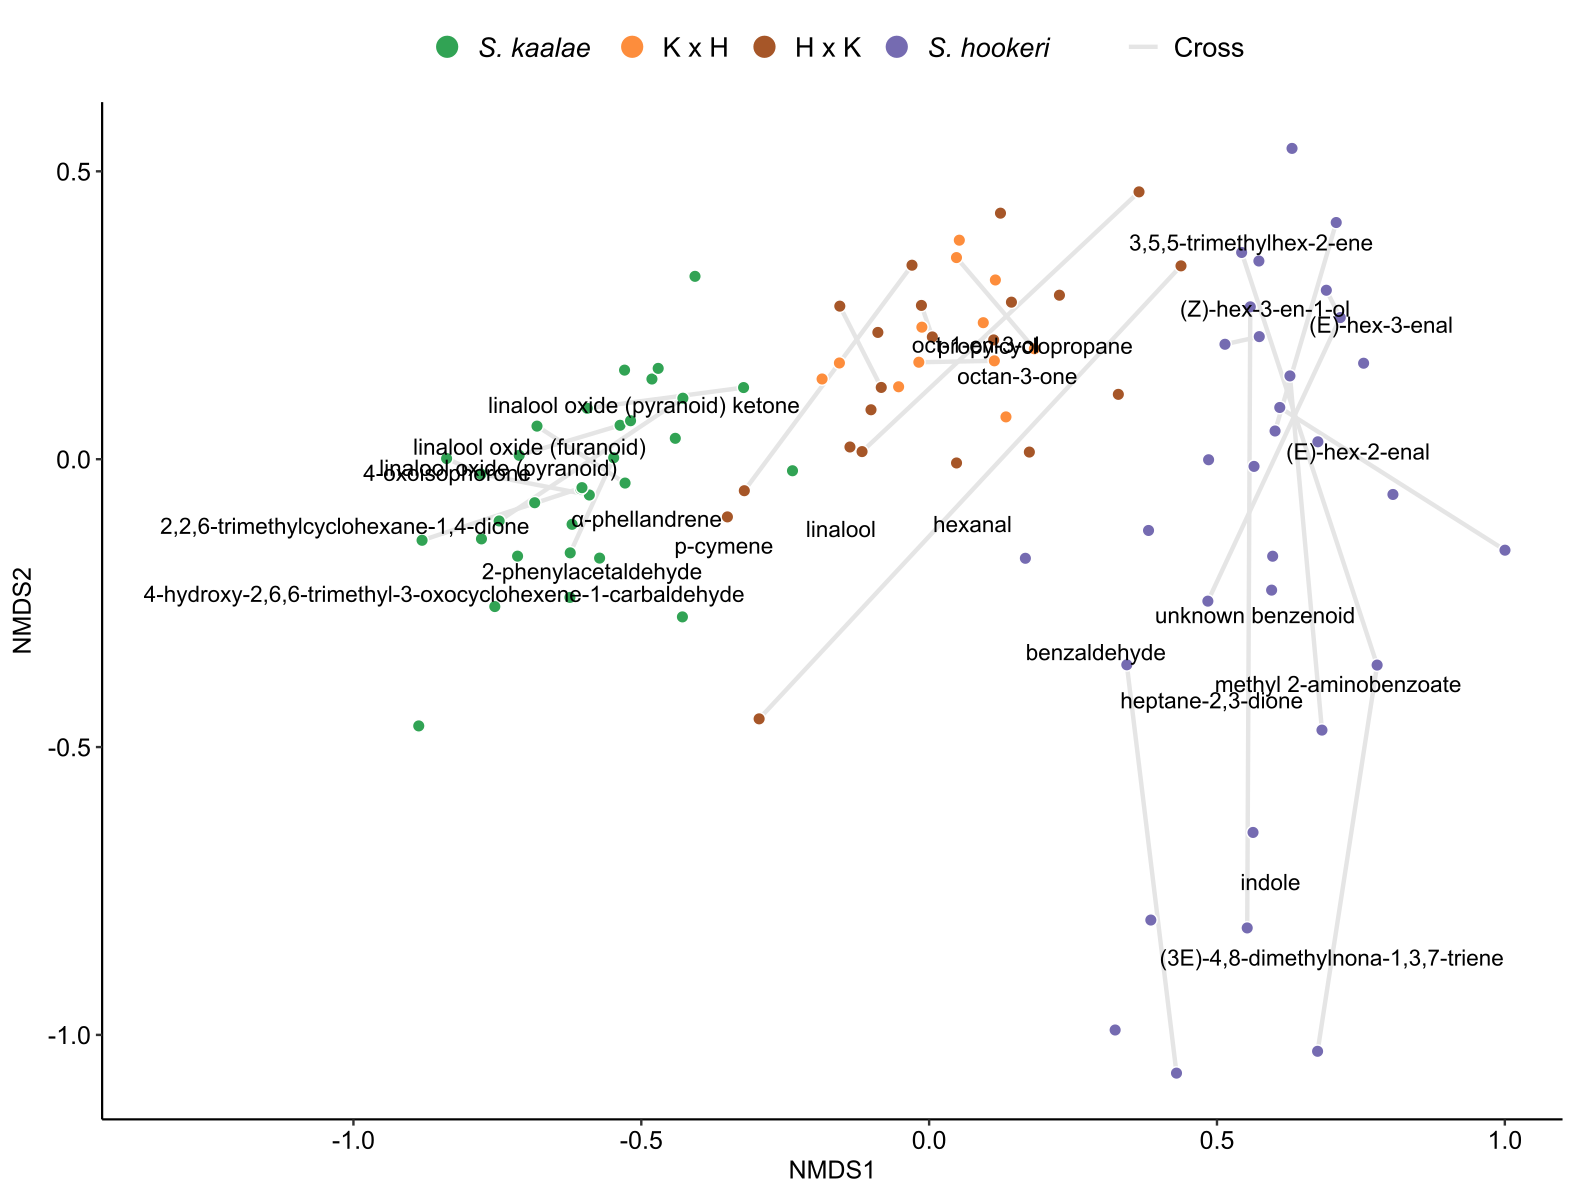
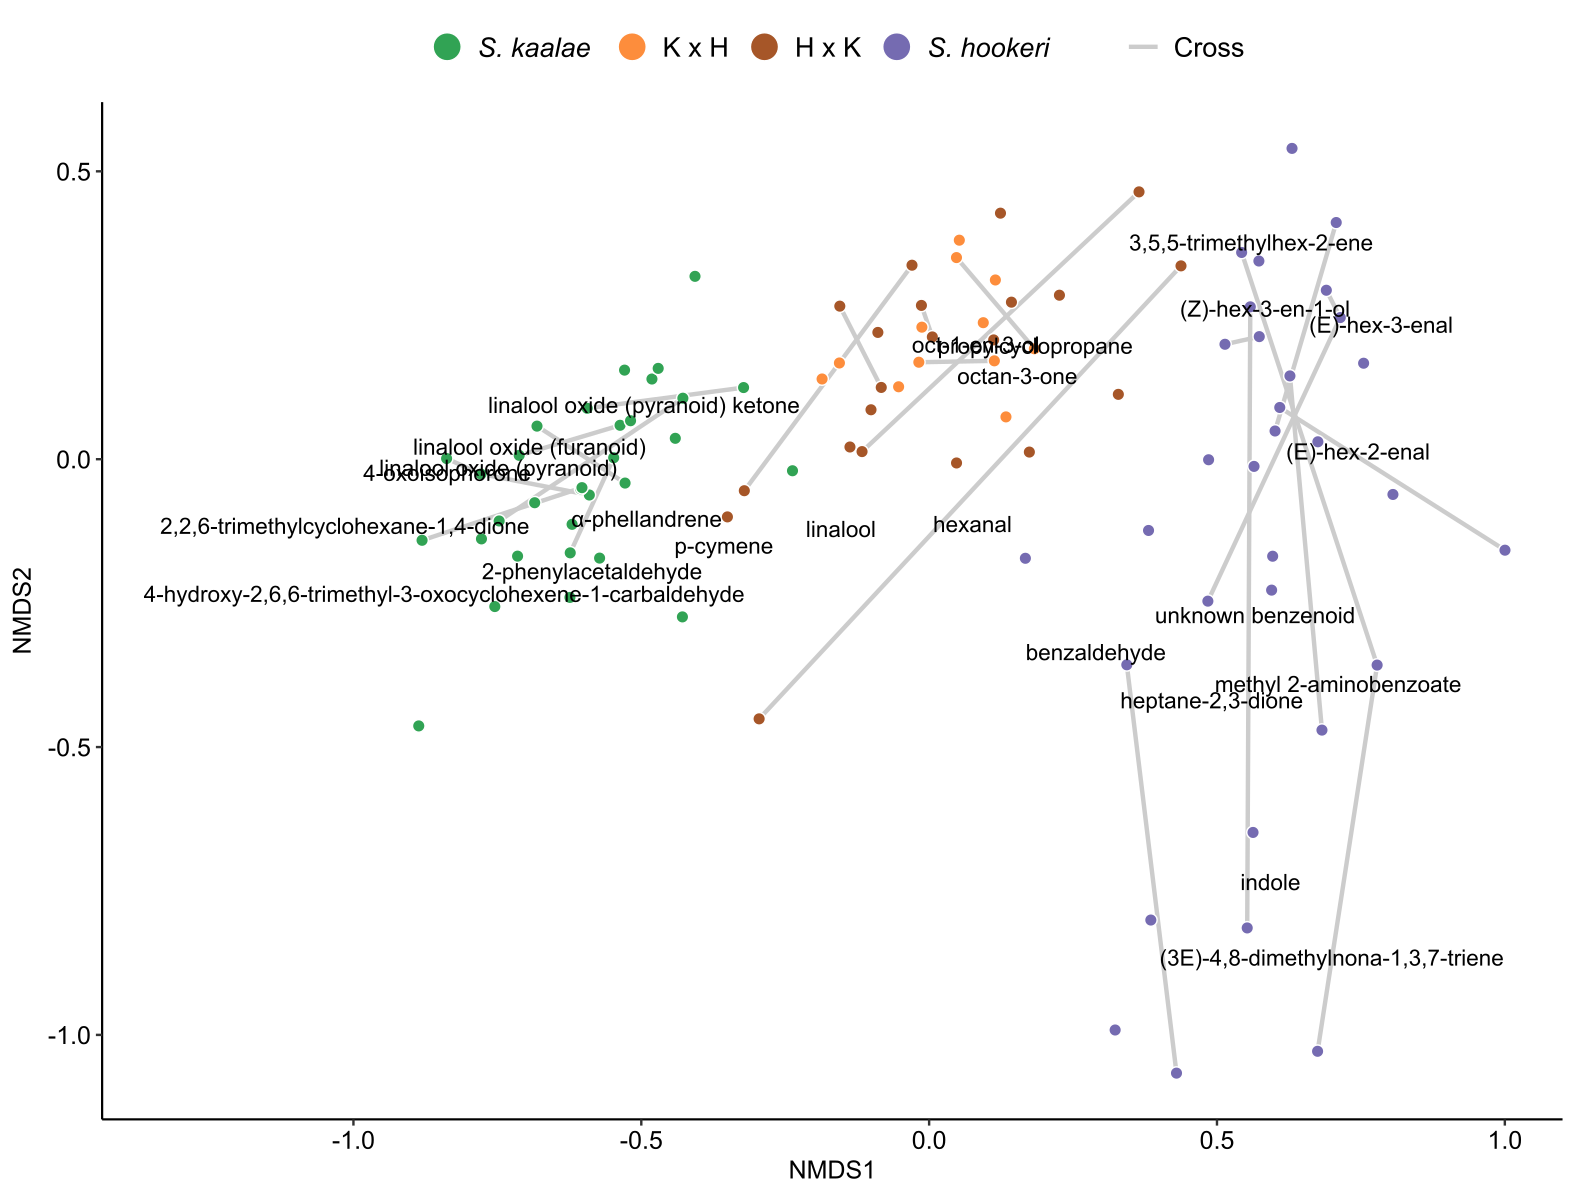
reverse color scales

diff --git a/hybrids_cut.html b/hybrids_cut.html
@@ -11,7 +11,7 @@
 
 <meta name="author" content="John Powers" />
 
-<meta name="date" content="2024-11-21" />
+<meta name="date" content="2024-12-04" />
 
 <title>Floral scent of Schiedea kaalae x hookeri hybrids</title>
 
@@ -254,7 +254,7 @@ div.tocify {
 hookeri</em> hybrids</h1>
 <h4 class="author"><a href="http://sites.uci.edu/powers/">John
 Powers</a></h4>
-<h4 class="date">2024-11-21</h4>
+<h4 class="date">2024-12-04</h4>
 
 </div>
 
@@ -266,8 +266,48 @@ td, th { padding : 6px }
 </style>
 <pre class="r"><code>figs &lt;- list.files(&quot;./hybrids_cut_plots&quot;, pattern=&quot;.svg&quot;)
 walk(figs, ~system(paste0(&quot;inkscape --export-dpi 150 -o ./hybrids_cut_plots/png/&quot;, str_replace(.x, &quot;.svg&quot;,&quot;.png&quot;), &quot; ./hybrids_cut_plots/&quot;, .x)))</code></pre>
-<div id="sample-inventory" class="section level1">
-<h1>Sample inventory</h1>
+<pre class="r"><code>greenhouse &lt;- matrix(c(-117.8475746, 33.6472914), nrow=1) #latlong of UCI greenhouse
+
+s &lt;- read_tsv(&quot;data/UCI_GCMS/Schiedea Volatiles Sampling - Samples.tsv&quot;) %&gt;% 
+  drop_na(Start, Stop) %&gt;% #2 bad samples with no Start, 1 missing Stop in 2019
+  nest(.by=SampleDate) %&gt;% #sunset function is slow, run on unique dates
+  mutate(sunset = map_vec(SampleDate, 
+                          ~maptools::sunriset(dateTime=ymd_hms(paste(.x, &quot;13:00:00&quot;)),
+                                              direction=&quot;sunset&quot;, crds=greenhouse, POSIXct.out=T)$time),
+         solarnoon = map_vec(SampleDate, 
+                          ~maptools::solarnoon(dateTime=ymd_hms(paste(.x, &quot;13:00:00&quot;)),
+                                              crds=greenhouse, POSIXct.out=T)$time)) %&gt;% unnest(data) %&gt;% 
+  mutate(StartSunset = difftime(ymd_hms(paste(SampleDate, Start)), sunset, units=&quot;hours&quot;),
+         StopSunset =  difftime(ymd_hms(paste(SampleDate, Stop)), sunset, units=&quot;hours&quot;),
+         StartNoon =   difftime(ymd_hms(paste(SampleDate, Start)), solarnoon, units=&quot;hours&quot;))
+
+CASsubs &lt;- read_tsv(&quot;data/UCI_GCMS/CASsubs3.csv&quot;) %&gt;% select(CAS, newCAS) %&gt;% deframe()
+
+data &lt;- read_tsv(&quot;data/UCI_GCMS/svhyb_ambient_blanks.csv&quot;) %&gt;% 
+  distinct() %&gt;% #generated some reports twice
+  select(FileName:`Base Peak`, Weighted, Reverse) %&gt;% 
+  rename(Path = FileName, Fraction = Amount, Match = Weighted) %&gt;% 
+  mutate(Path = str_sub(Path, 52, -5), #remove base directory and file extension
+         SampleDate = str_extract(Path, &quot;\\\\(.*)&quot;, group=1), #file name after folder
+         Sample = if_else(str_sub(SampleDate, 1, 5)==&quot;BLANK&quot;, SampleDate, 
+          str_extract(SampleDate, &quot;(.*?)_.*&quot;, group=1) %&gt;% #drop GC index
+            #pad sample number to 3 digits with zeros
+            str_replace(&quot;(\\d+)&quot;, function(x) formatC(as.integer(x), width=3, format=&quot;d&quot;, flag=&quot;0&quot;)) %&gt;% 
+            str_replace(&quot;^KAHO&quot;, &quot;SKAHO&quot;)),
+         CAS = str_replace(CAS, &quot;(\\d{2,7})(\\d{2})(\\d{1})$&quot;,&quot;\\1-\\2-\\3&quot;) %&gt;% #add dashes
+           recode(!!!CASsubs),#manual identifications
+         Name = str_remove(Name, &quot;^&gt;&quot;),
+         across(c(SampleDate, Path, Model, Sample, Name, CAS), factor),
+         across(c(Fraction, Purity, `Min. Abund.`), ~ as.numeric(str_remove(.x, &quot;%&quot;))/100)) %&gt;% 
+  #AMDIS Base Peak only has the most common ion integrated
+  #instead, multiply fractions by total peak areas from sum_chromatograms.R
+  left_join(read_tsv(&quot;data/UCI_GCMS/svhyb_TICsums.csv&quot;) %&gt;% 
+              mutate(SampleDate = str_extract(file, &quot;(.*).CDF&quot;, group=1))) %&gt;% 
+  mutate(Area = Fraction * sumTIC)
+
+chems.pc &lt;- read_tsv(&quot;data/UCI_GCMS/chemspc3.csv&quot;) %&gt;% select(CAS, IUPAC.Name) %&gt;% mutate(IUPAC.Name = str_replace(IUPAC.Name, &quot;~\\{(.*?)\\}&quot;, &quot;\\1&quot;))</code></pre>
+<div id="filtering" class="section level1">
+<h1>Filtering</h1>
 <pre class="r"><code>#Load filtered scent data (includes octenol and hexenol) and metadata
 # load(&quot;./data/UCI_GCMS/sdata3_hexoct.Rdata&quot;)
 # TODO some red flags in the Notes column - possible wrong IDs
@@ -276,12 +316,14 @@ walk(figs, ~system(paste0(&quot;inkscape --export-dpi 150 -o ./hybrids_cut_plots
 load(&quot;./data/UCI_GCMS/sdata3_hexoct_svvol.Rdata&quot;)
 
 #convert to nanograms per hour using standards for each compound class
-#TODO move this to sdata3
 vocs &lt;- colnames(vol)
 chemsf &lt;- tibble(shortname = vocs) %&gt;%# two VOCs got renamed since table was made 
   bind_cols(read_tsv(&quot;data/UCI_GCMS/chemspc3_classes.csv&quot;)) %&gt;% 
   left_join(read_tsv(&quot;data/UCI_GCMS/multipliers.csv&quot;))
 vol &lt;- sweep(vol, 2, chemsf$ngPerArea, FUN= `*`)</code></pre>
+</div>
+<div id="sample-inventory" class="section level1">
+<h1>Sample inventory</h1>
 <pre class="r"><code>eve &lt;- -2.5 #hours before sunset
 hybcolr &lt;- c(`S. kaalae` = &quot;#31A354&quot;, `K x H` = &quot;#FD8D3C&quot;, `H x K` = &quot;#A65628&quot;, `S. hookeri` = &quot;#756BB1&quot;)
 hyblabs &lt;- c(expression(italic(&quot;S. kaalae&quot;)),&quot;K x H&quot;, &quot;H x K&quot;, expression(italic(&quot;S. hookeri&quot;)))
@@ -1259,12 +1301,15 @@ hybnplot &lt;- ggplot(obj, aes(x=-NMDS1, y=NMDS2)) +
     geom_path(data=filter(obj, score==&quot;sites&quot;),aes(group=plantsi, color=&quot;plantsi&quot;), linewidth=1) +
     geom_path(data=filter(obj, score==&quot;sites&quot;),aes(group=plantsinflo, color=&quot;plantsinflo&quot;), linewidth=1) +
     geom_path(data=filter(obj, score==&quot;sites&quot;),aes(group=plantsinflodate, color=&quot;plantsinflodate&quot;), linewidth=1) +
-  scale_color_manual(&quot;&quot;,breaks=c(&quot;cross&quot;,&quot;parents&quot;,&quot;plantsi&quot;,&quot;plantsinflo&quot;,&quot;plantsinflodate&quot;), labels=c(&quot;Cross&quot;,&quot;Clone&quot;,&quot;Plant&quot;,&quot;Inflorescence&quot;,&quot;Bag&quot;), values=c(cross=&quot;grey90&quot;, parents=&quot;grey60&quot;, plantsi=&quot;grey30&quot;, plantsinflo=brewer.pal(6,&quot;Set1&quot;)[6],plantsinflodate=brewer.pal(6,&quot;Set1&quot;)[1],sites=&quot;white&quot;,species=NA)) +
+  scale_color_manual(&quot;&quot;,breaks=c(&quot;plantsinflodate&quot;, &quot;plantsinflo&quot;, &quot;plantsi&quot;, &quot;parents&quot;, &quot;cross&quot;),
+                     labels=   c(&quot;Bag&quot;,             &quot;Infloresence&quot;,&quot;Plant&quot;,   &quot;Clone&quot;,   &quot;Cross&quot;),
+                     values=c(cross=&quot;grey80&quot;, parents=&quot;grey50&quot;, plantsi=&quot;grey20&quot;,
+                              plantsinflo=&quot;goldenrod&quot;,plantsinflodate=&quot;#E41A1C&quot;,sites=&quot;white&quot;,species=NA)) +
       coord_fixed(xlim=range(obj$NMDS1[obj$score==&quot;sites&quot;])+c(-0.35,0.45), 
                   ylim=range(obj$NMDS2[obj$score==&quot;sites&quot;])) + theme_pubr()+
     scale_x_continuous(expand=c(0,0)) +
     theme(legend.text = element_text(size=13)) + 
-    guides(fill = guide_legend(override.aes = list(size=6)), color=guide_legend(override.aes=list(size=3)))
+    guides(fill = guide_legend(override.aes = list(size=6)), color=guide_legend(override.aes=list(size=4)))
 
 (hybplotn.spec &lt;- hybnplot + 
         scale_fill_manual(&quot;&quot;, values=hybcolr, labels=hyblabs,  na.translate=F) +
@@ -1308,9 +1353,9 @@ obj.mean &lt;- obj.mean %&gt;% arrange(NMDS2, NMDS1)
     theme_pubr()+
     scale_x_continuous(expand=c(0,0))+
     theme(legend.text = element_text(size=13)) + 
-    guides(fill = guide_legend(override.aes = list(size=5)), color=guide_legend(override.aes=list(size=3)))+
+    guides(fill = guide_legend(override.aes = list(size=6)), color=guide_legend(override.aes=list(size=4)))+
     scale_fill_manual(&quot;&quot;, values=hybcolr, labels=hyblabs,  na.translate=F) +
-      scale_color_manual(&quot;&quot;,breaks=c(&quot;cross&quot;,&quot;parents&quot;), labels=c(&quot;Cross&quot;,&quot;Clone&quot;), values=c(cross=&quot;grey90&quot;, parents=&quot;grey60&quot;)) +
+      scale_color_manual(&quot;&quot;,breaks=c(&quot;cross&quot;,&quot;parents&quot;), labels=c(&quot;Cross&quot;,&quot;Clone&quot;), values=c(cross=&quot;grey80&quot;)) +
     geom_path(data=obj.mean[obj.mean$score==&quot;sites&quot;,],aes(group=plants, color=&quot;cross&quot;), size=1) +
     #geom_path(data=obj.mean[obj.mean$score==&quot;sites&quot;,],aes(group=parents, color=&quot;parents&quot;), size=1) +
     geom_point(data=obj.mean[obj.mean$score==&quot;sites&quot;,], aes(fill=SpeciesR), shape=21, size=2.5, color=&quot;white&quot;) +
